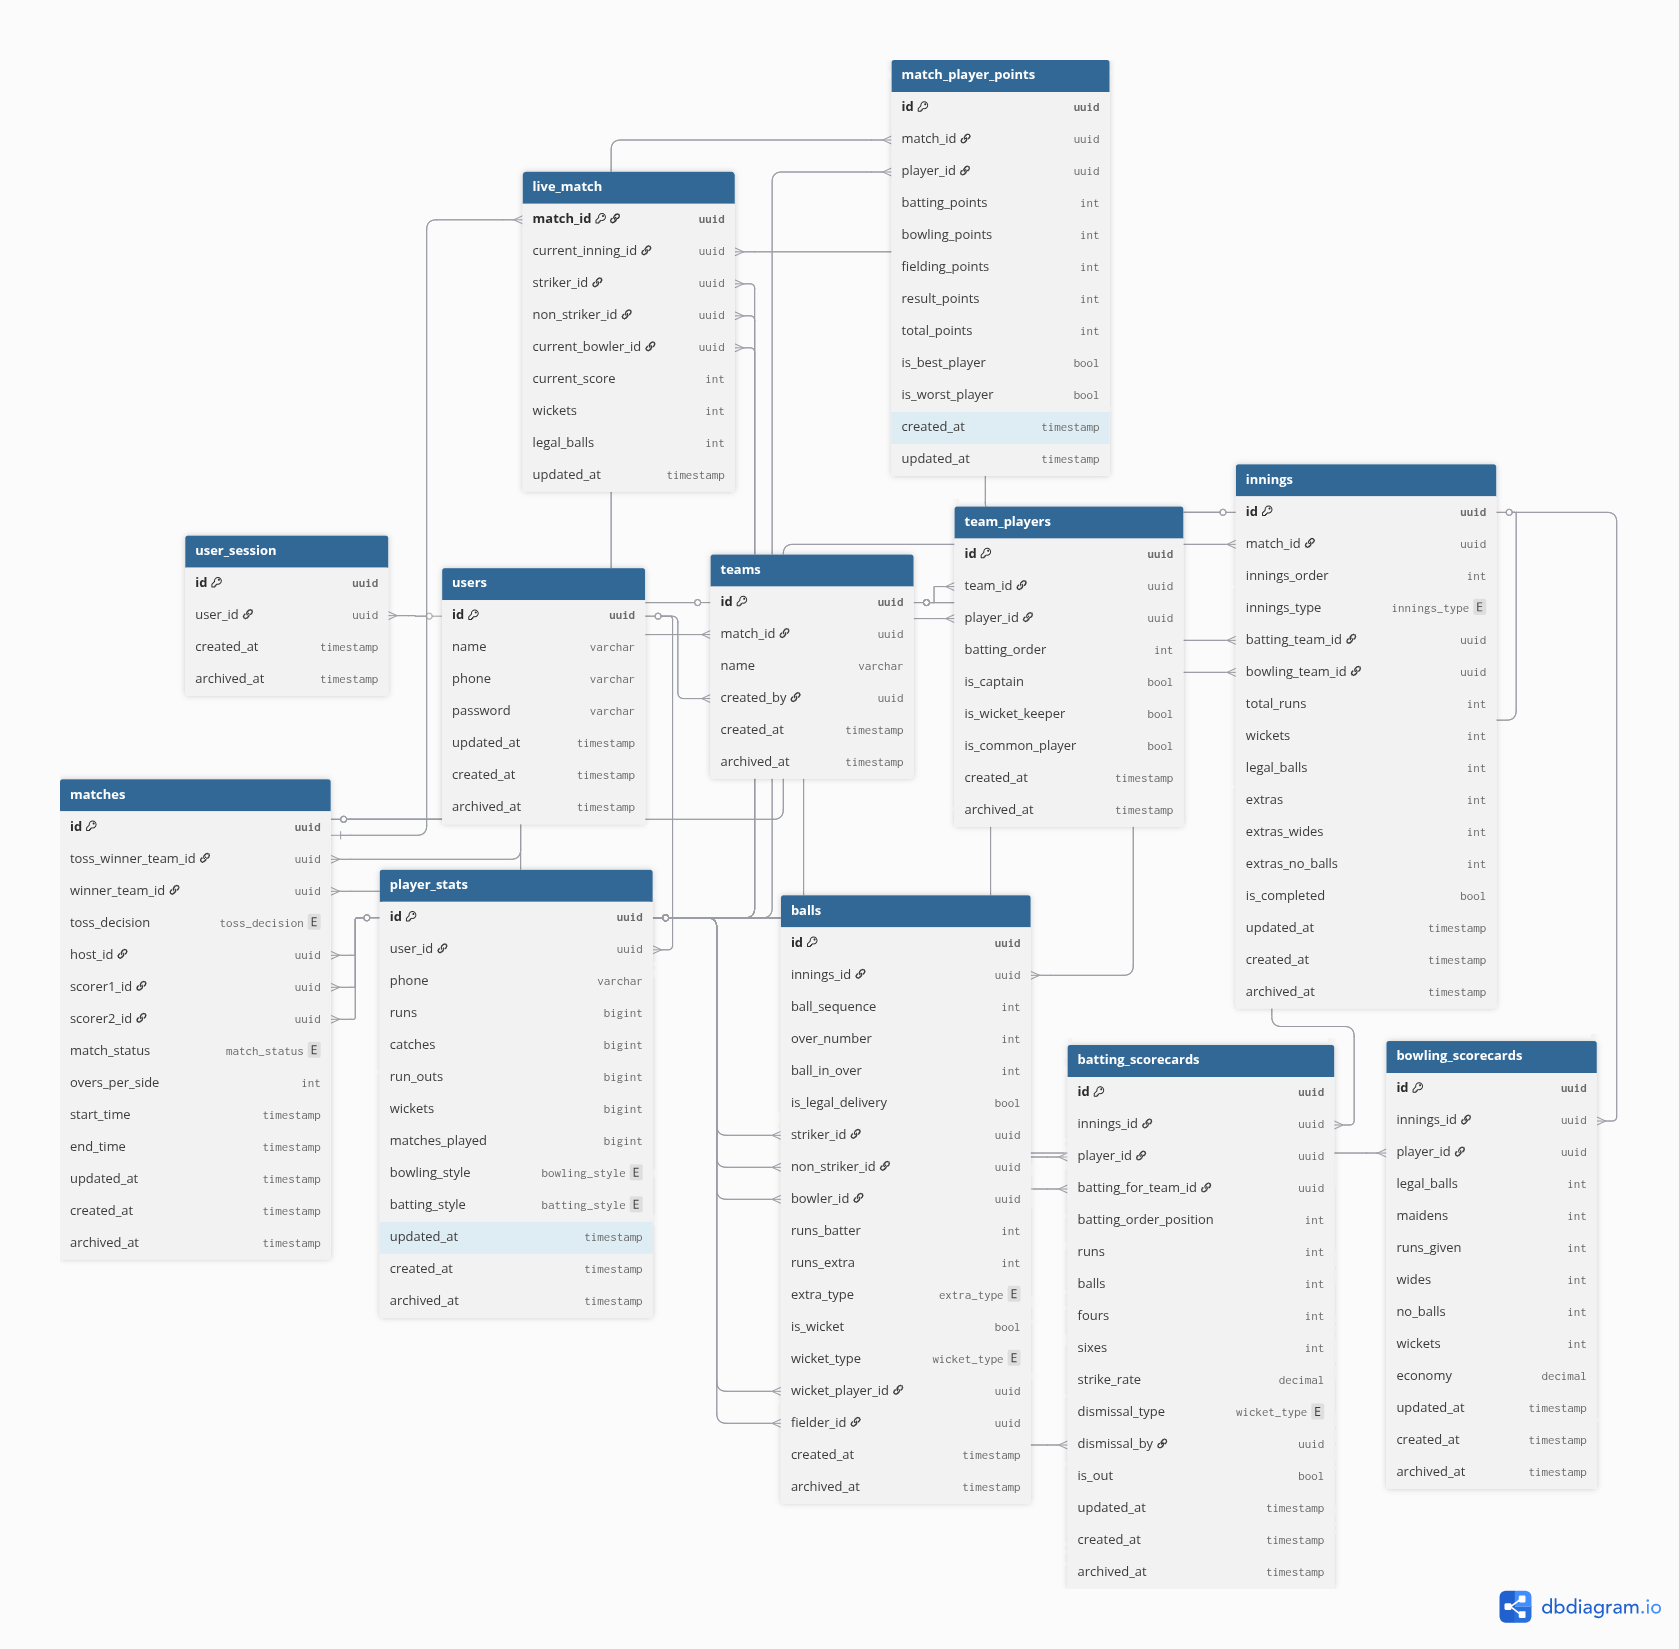
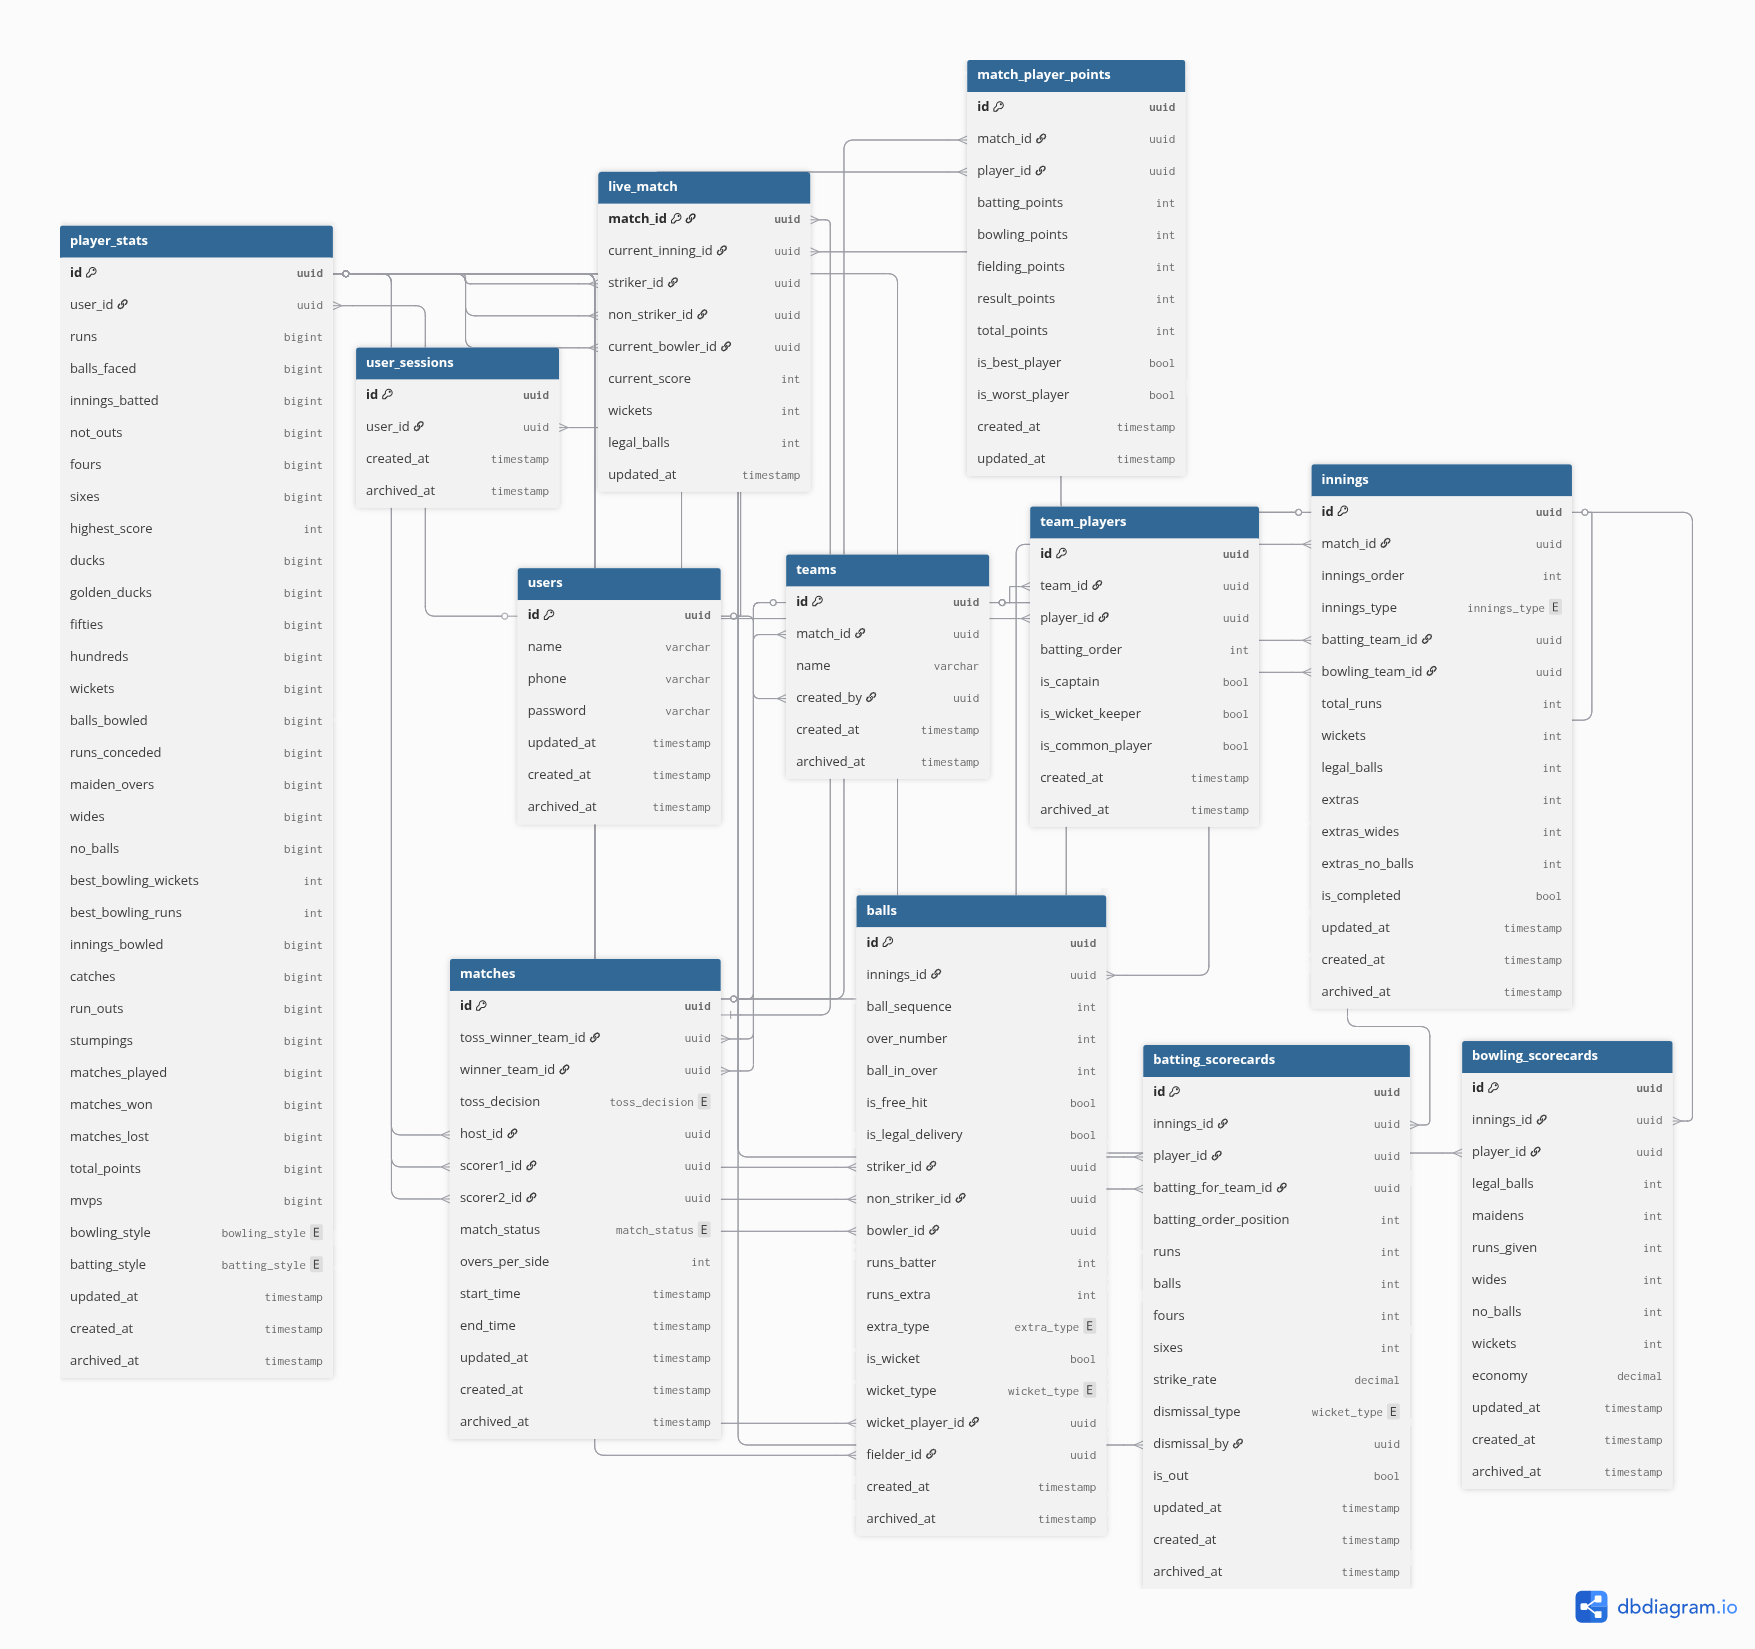
updated player_stats table

diff --git a/models/player.go b/models/player.go
@@ -3,15 +3,63 @@ package models
 import "time"
 
 type PlayerStats struct {
-	Id            string    `db:"id" json:"id"`
-	Name          string    `db:"name" json:"name"`
-	Runs          int64     `db:"runs" json:"runs"`
-	Catches       int64     `db:"catches" json:"catches"`
-	RunOuts       int64     `db:"run_outs" json:"run_outs"`
-	Wickets       int64     `db:"wickets" json:"wickets"`
-	MatchesPlayed int64     `db:"matches_played" json:"matches_played"`
-	BowlingStyle  *string   `db:"bowling_style" json:"bowling_style"`
-	BattingStyle  *string   `db:"batting_style" json:"batting_style"`
-	UpdatedAt     time.Time `db:"updated_at" json:"updated_at"`
-	CreatedAt     time.Time `db:"created_at" json:"created_at"`
+	Id     string `db:"id" json:"id"`
+	UserID string `db:"user_id" json:"user_id"`
+
+	Name string `db:"name" json:"name"`
+
+	// batting
+	Runs          int64 `db:"runs" json:"runs"`
+	BallsFaced    int64 `db:"balls_faced" json:"balls_faced"`
+	InningsBatted int64 `db:"innings_batted" json:"innings_batted"`
+	NotOuts       int64 `db:"not_outs" json:"not_outs"`
+
+	Fours int64 `db:"fours" json:"fours"`
+	Sixes int64 `db:"sixes" json:"sixes"`
+
+	HighestScore int64 `db:"highest_score" json:"highest_score"`
+
+	Ducks       int64 `db:"ducks" json:"ducks"`
+	GoldenDucks int64 `db:"golden_ducks" json:"golden_ducks"`
+
+	Fifties  int64 `db:"fifties" json:"fifties"`
+	Hundreds int64 `db:"hundreds" json:"hundreds"`
+
+	// bowling
+	Wickets int64 `db:"wickets" json:"wickets"`
+
+	BallsBowled  int64 `db:"balls_bowled" json:"balls_bowled"`
+	RunsConceded int64 `db:"runs_conceded" json:"runs_conceded"`
+
+	MaidenOvers int64 `db:"maiden_overs" json:"maiden_overs"`
+
+	Wides   int64 `db:"wides" json:"wides"`
+	NoBalls int64 `db:"no_balls" json:"no_balls"`
+
+	BestBowlingWickets int64 `db:"best_bowling_wickets" json:"best_bowling_wickets"`
+	BestBowlingRuns    int64 `db:"best_bowling_runs" json:"best_bowling_runs"`
+
+	InningsBowled int64 `db:"innings_bowled" json:"innings_bowled"`
+
+	// fielding
+	Catches   int64 `db:"catches" json:"catches"`
+	RunOuts   int64 `db:"run_outs" json:"run_outs"`
+	Stumpings int64 `db:"stumpings" json:"stumpings"`
+
+	// match stats
+	MatchesPlayed int64 `db:"matches_played" json:"matches_played"`
+	MatchesWon    int64 `db:"matches_won" json:"matches_won"`
+	MatchesLost   int64 `db:"matches_lost" json:"matches_lost"`
+
+	// fantasy/game points
+	TotalPoints int64 `db:"total_points" json:"total_points"`
+	MVPs        int64 `db:"mvps" json:"mvps"`
+
+	// styles
+	BowlingStyle *string `db:"bowling_style" json:"bowling_style"`
+	BattingStyle *string `db:"batting_style" json:"batting_style"`
+
+	UpdatedAt  time.Time  `db:"updated_at" json:"updated_at"`
+	CreatedAt  time.Time  `db:"created_at" json:"created_at"`
+	ArchivedAt *time.Time `db:"archived_at" json:"archived_at"`
 }

diff --git a/database/dbHelper/player.go b/database/dbHelper/player.go
@@ -8,17 +8,42 @@ import (
 func GetPlayerProfileByUserID(userID string) (playerStats models.PlayerStats, err error) {
 	query := `
 	SELECT
-		u.name,
 		ps.id,
+		ps.user_id,
+		u.name,
 		ps.runs,
+		ps.balls_faced,
+		ps.innings_batted,
+		ps.not_outs,
+		ps.fours,
+		ps.sixes,
+		ps.highest_score,
+		ps.ducks,
+		ps.golden_ducks,
+		ps.fifties,
+		ps.hundreds,
+		ps.wickets,
+		ps.balls_bowled,
+		ps.runs_conceded,
+		ps.maiden_overs,
+		ps.wides,
+		ps.no_balls,
+		ps.best_bowling_wickets,
+		ps.best_bowling_runs,
+		ps.innings_bowled,
 		ps.catches,
 		ps.run_outs,
-		ps.wickets,
+		ps.stumpings,
 		ps.matches_played,
+		ps.matches_won,
+		ps.matches_lost,
+		ps.total_points,
+		ps.mvps,
 		ps.bowling_style,
 		ps.batting_style,
 		ps.updated_at,
-		ps.created_at
+		ps.created_at,
+		ps.archived_at
 	FROM users u
 	INNER JOIN player_stats ps
 		ON ps.user_id = u.id
@@ -26,7 +51,7 @@ func GetPlayerProfileByUserID(userID string) (playerStats models.PlayerStats, er
 	WHERE
 		u.id = $1
 		AND u.archived_at IS NULL
-`
+	`
 
 	err = database.DB.Get(
 		&playerStats,